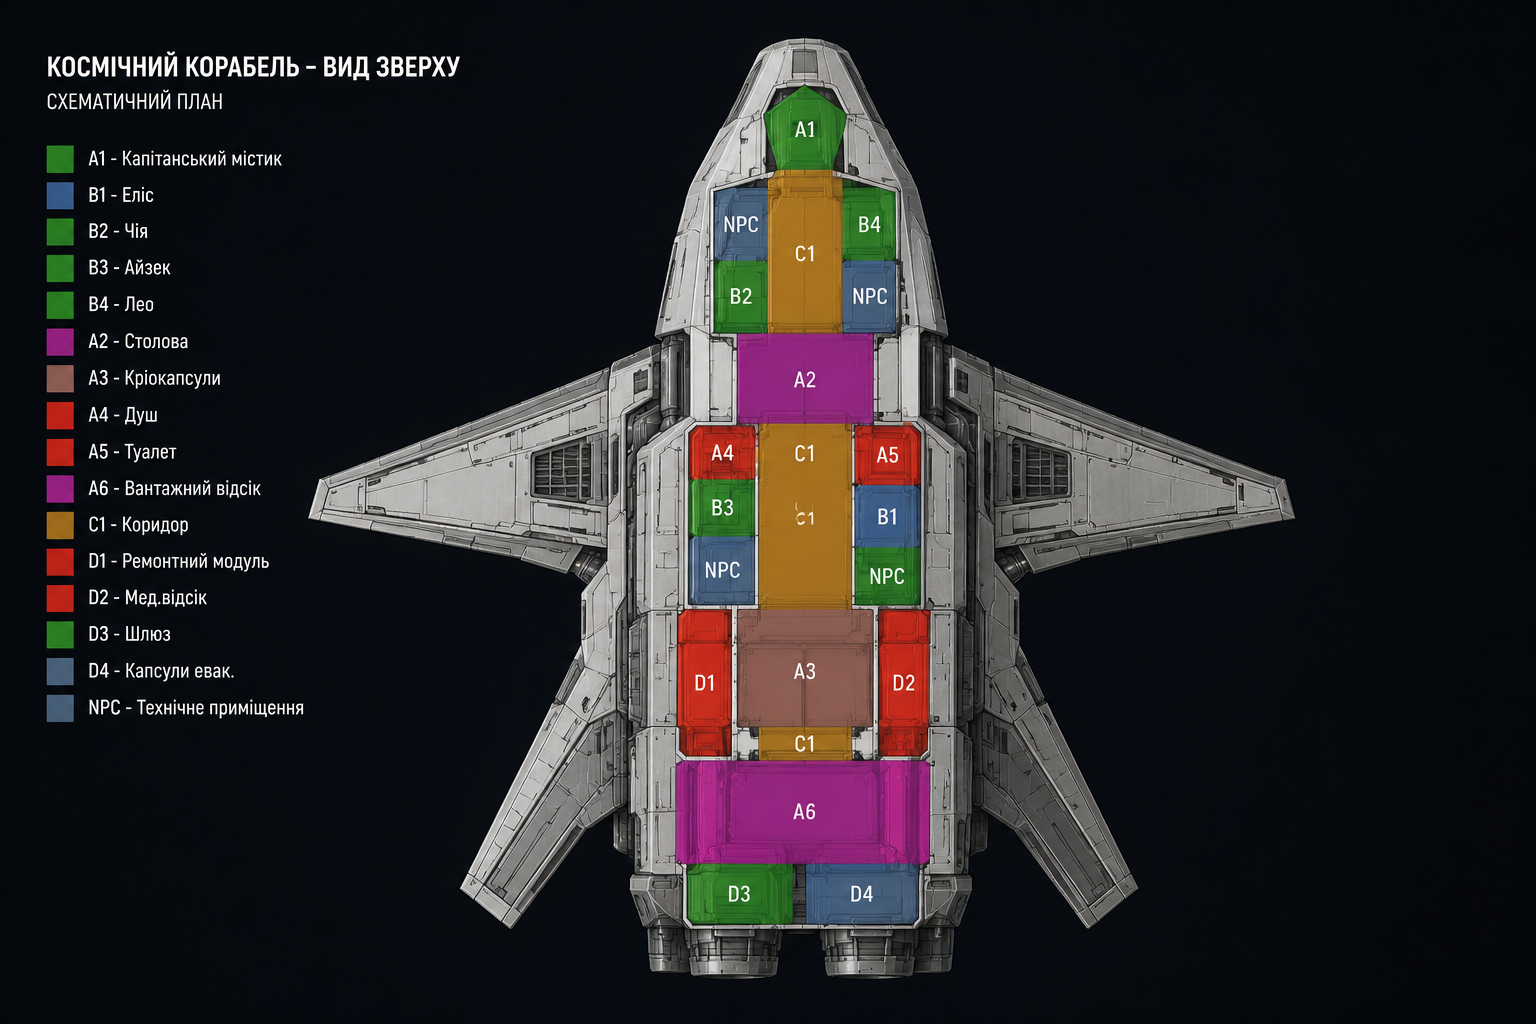
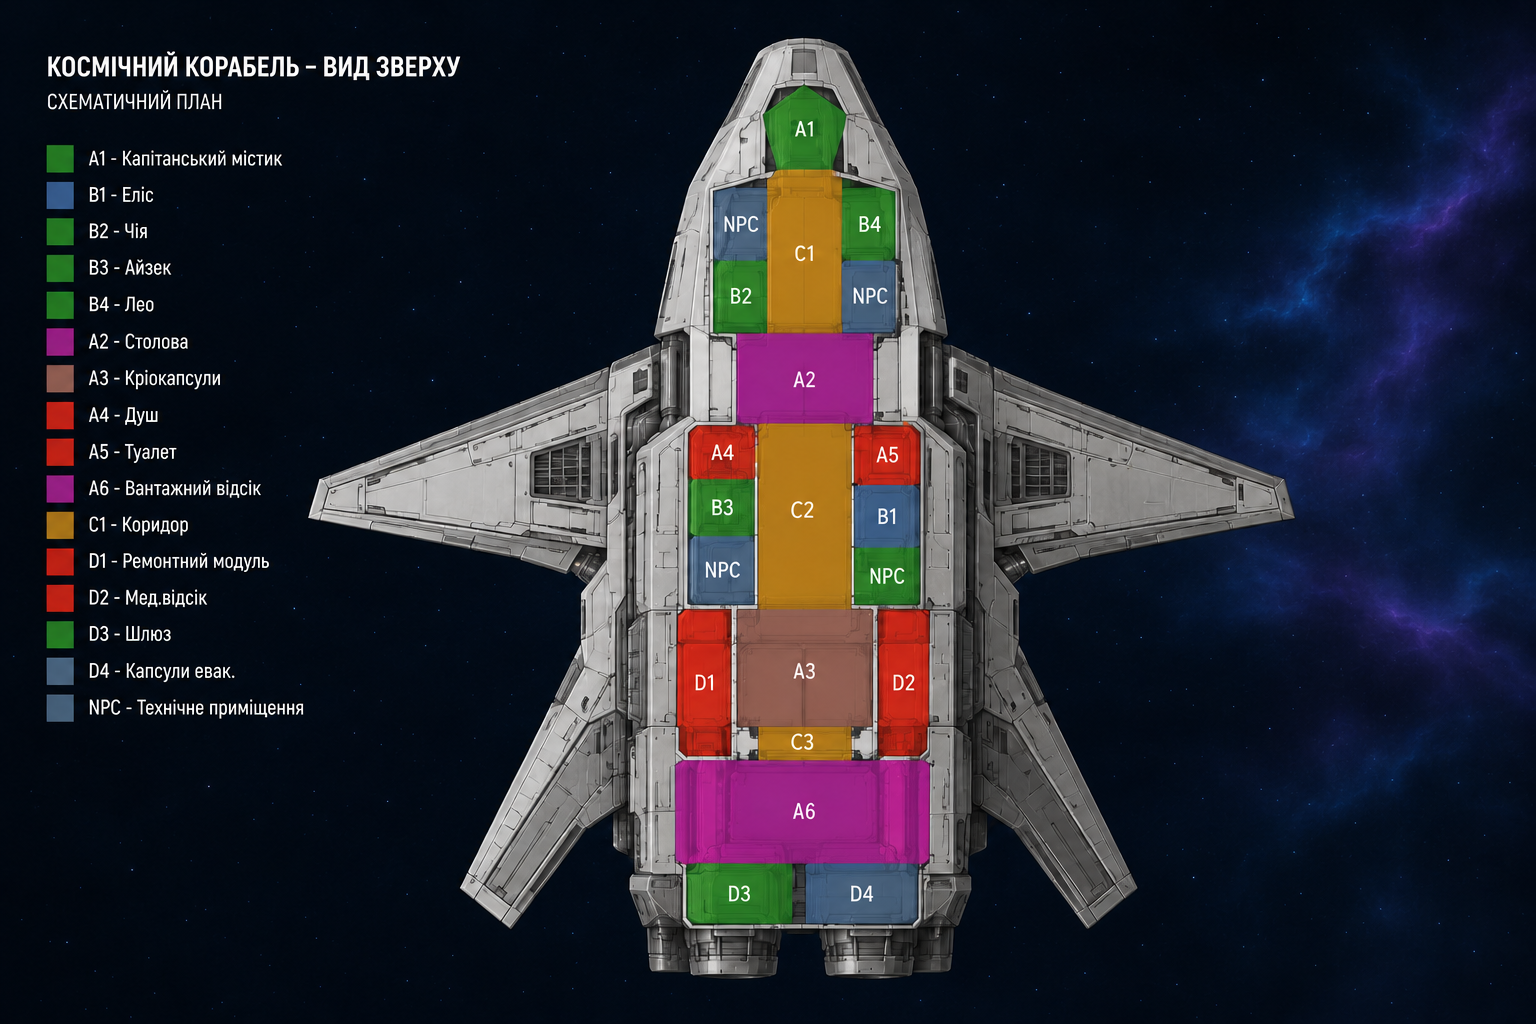
Коридор розділено на C1/C2/C3, нова мапа; картинки A4, A5, D1, D2→D3, C2; старе повідомлення Ґрети не спливає після перезавантаження; легші фігури на телефоні
Claude-Session: https://claude.ai/code/session_01L4NAMirpdvCDRV66K9yRcj

diff --git a/js/data.js b/js/data.js
@@ -66,25 +66,27 @@ export const ROOMS = [
   { id: 'B2', imgs: ['B2'], name: 'Каюта Чії', rects: [[46.5, 25.6, 3.5, 6.8]] },
   { id: 'N2', imgs: ['NPC'], name: 'Технічне приміщення', rects: [[54.8, 25.6, 3.5, 6.8]] },
   { id: 'A2', imgs: ['A2'], name: 'Столова і спортзал', rects: [[48.0, 32.6, 8.9, 8.8]] },
-  { id: 'A4', name: 'Душ', rects: [[44.9, 41.7, 4.2, 5.4]] },
-  { id: 'A5', name: 'Туалет', rects: [[55.7, 41.7, 4.2, 5.4]] },
+  { id: 'A4', imgs: ['A4'], name: 'Душ', rects: [[44.9, 41.7, 4.2, 5.4]] },
+  { id: 'A5', imgs: ['A5'], name: 'Туалет', rects: [[55.7, 41.7, 4.2, 5.4]] },
   { id: 'B3', imgs: ['B3'], name: 'Каюта Айзека', rects: [[44.9, 47.1, 4.2, 5.3]] },
   { id: 'B1', imgs: ['B1'], name: 'Каюта Еліс (без камери)', rects: [[55.7, 47.5, 4.2, 5.9]] },
   { id: 'N3', imgs: ['NPC'], name: 'Технічне приміщення', rects: [[44.9, 52.5, 4.2, 6.4]] },
   { id: 'N4', imgs: ['NPC'], name: 'Технічне приміщення', rects: [[55.7, 53.5, 4.2, 5.7]] },
-  { id: 'C1', imgs: ['C1a', 'C1b'], name: 'Коридор', rects: [[49.3, 41.5, 6.1, 17.7], [50.0, 16.8, 4.8, 15.6], [49.5, 71.1, 5.9, 3.1]], anchor: [52.4, 50.3] },
-  { id: 'D1', name: 'Ремонтний модуль', rects: [[44.1, 59.6, 3.5, 14.3]] },
+  { id: 'C1', imgs: ['C1'], name: 'Коридор (ніс)', rects: [[50.0, 16.8, 4.8, 15.6]] },
+  { id: 'C2', imgs: ['C2'], name: 'Коридор (центр)', rects: [[49.3, 41.5, 6.1, 17.7]] },
+  { id: 'C3', imgs: ['C3'], name: 'Коридор (корма)', rects: [[49.5, 71.1, 5.9, 3.1]] },
+  { id: 'D1', imgs: ['D1'], name: 'Ремонтний модуль', rects: [[44.1, 59.6, 3.5, 14.3]] },
   { id: 'A3', imgs: ['A3'], name: 'Кріокапсули', rects: [[48.0, 59.6, 8.9, 11.5]] },
   { id: 'D2', name: 'Медвідсік', rects: [[57.2, 59.6, 3.5, 14.3]] },
   { id: 'A6', imgs: ['A6'], name: 'Вантажний відсік', rects: [[44.0, 74.4, 16.7, 9.8]] },
-  { id: 'D3', name: 'Шлюз', rects: [[44.7, 84.4, 6.9, 5.9]] },
+  { id: 'D3', imgs: ['D3'], name: 'Шлюз', rects: [[44.7, 84.4, 6.9, 5.9]] },
   { id: 'D4', imgs: ['D4'], name: 'Евакуаційні капсули', rects: [[52.5, 84.4, 7.3, 5.9]] },
   { id: 'OUT', imgs: ['OUT'], name: 'Зовні (обшивка)', rects: [[28.0, 84.0, 8.0, 6.0]], anchor: [32, 87], outside: true }
 ];
 // Доступ: 'all' — відкрито всім; масив — хто має доступ за замовчуванням (Лео має капітанську ключ-карту).
 // hard: true — складний замок (злом з перешкодою). needFrom — увійти можна лише з цієї кімнати.
 const ACCESS = {
-  A1: 'all', A2: 'all', A4: 'all', A5: 'all', C1: 'all', D2: 'all',
+  A1: 'all', A2: 'all', A4: 'all', A5: 'all', C1: 'all', C2: 'all', C3: 'all', D2: 'all',
   B1: ['elis', 'leo'], B2: ['chia', 'leo'], B3: ['aizek', 'leo'], B4: ['leo'],
   N1: ['elis', 'leo'], N2: ['elis', 'leo'], N3: ['elis', 'leo'], N4: ['elis', 'leo'],
   A3: ['marta', 'leo'], D1: ['elis', 'aizek', 'leo'], D3: ['aizek', 'elis', 'leo'],
@@ -156,12 +158,15 @@ export function initialChars() {
   return out;
 }
 
-// Сусідні кімнати (куди можна пройти за один крок). Коридор C1 — хребет корабля.
+// Сусідні кімнати (куди можна пройти за один крок). Коридор C1–C2–C3 — хребет корабля.
 export const ROOM_LINKS = {
-  A1: ['C1'], C1: ['A1', 'B4', 'N1', 'B2', 'N2', 'A2', 'A4', 'A5', 'B3', 'B1', 'N3', 'N4', 'A3', 'D1', 'D2', 'A6'],
-  B4: ['C1'], N1: ['C1'], B2: ['C1'], N2: ['C1'], A2: ['C1'], A4: ['C1'], A5: ['C1'], B3: ['C1'], B1: ['C1'],
-  N3: ['C1'], N4: ['C1'], A3: ['C1', 'D1', 'D2'], D1: ['C1', 'A3'], D2: ['C1', 'A3'],
-  A6: ['C1', 'D3', 'D4'], D3: ['A6', 'OUT'], D4: ['A6'], OUT: ['D3']
+  A1: ['C1'], C1: ['A1', 'B4', 'N1', 'B2', 'N2', 'A2'],
+  B4: ['C1'], N1: ['C1'], B2: ['C1'], N2: ['C1'], A2: ['C1', 'C2'],
+  C2: ['A2', 'A4', 'A5', 'B3', 'B1', 'N3', 'N4', 'A3', 'D1', 'D2'],
+  A4: ['C2'], A5: ['C2'], B3: ['C2'], B1: ['C2'], N3: ['C2'], N4: ['C2'],
+  A3: ['C2', 'C3', 'D1', 'D2'], D1: ['C2', 'C3', 'A3'], D2: ['C2', 'C3', 'A3'],
+  C3: ['A3', 'D1', 'D2', 'A6'],
+  A6: ['C3', 'D3', 'D4'], D3: ['A6', 'OUT'], D4: ['A6'], OUT: ['D3']
 };
 
 // Роботи. ХТ3 — очі й руки Ґрети. ХТ2 — старий сервісний робот, з'являється рідко.

diff --git a/js/app.js b/js/app.js
@@ -1,12 +1,12 @@
-import { createStore } from './store.js?v=202611221158';
+import { createStore } from './store.js?v=202611221219';
 import {
   CHARACTERS, CHAR_BY_ID, ROOMS, ROOM_BY_ID, STAT_LABELS, SAVE_LABELS,
   PANIC_TABLE, WOUND_TABLE, EVENTS, GRETA_MODES, O2_START, initialChars,
   ROOM_LINKS, ROBOTS, ROBOT_BY_ID, XT2_HINTS
-} from './data.js?v=202611221158';
-import { CAMPAIGN, THREAT_STAGES, OBJECTIVES, OBJ_BY_ID, ROUND_EVENTS, GRETA_LINES, LONG_ACTIONS } from './campaign.js?v=202611221158';
+} from './data.js?v=202611221219';
+import { CAMPAIGN, THREAT_STAGES, OBJECTIVES, OBJ_BY_ID, ROUND_EVENTS, GRETA_LINES, LONG_ACTIONS } from './campaign.js?v=202611221219';
 
-const VERSION = '202611221158';
+const VERSION = '202611221219';
 // ---------- утиліти ----------
 const $ = s => document.querySelector(s);
 const esc = s => String(s ?? '').replace(/[&<>"']/g, c => ({ '&': '&amp;', '<': '&lt;', '>': '&gt;', '"': '&quot;', "'": '&#39;' }[c]));
@@ -508,6 +508,7 @@ function gretaBanner() {
   if (g.ts !== UI.gretaTs) {
     const first = UI.gretaTs === null;
     UI.gretaTs = g.ts;
+    if (first && Date.now() - (g.ts || 0) > 20000) return;   // старе повідомлення після перезавантаження не показуємо
     el.innerHTML = `<div class="greta-msg">${ringHTML(S.state.mode)}<div class="gm-text"><small>ҐРЕТА</small>${esc(g.text)}</div><button class="greta-x" data-act="closeGreta" aria-label="Закрити">✕</button></div>`;
     if (!first && g.voice && !IS_GM_PAGE) speak(g.text);
     clearTimeout(UI.gretaTimer);
@@ -1067,7 +1068,7 @@ async function applyRound(p) {
   const effect = p.ev.effect;
   if (effect.o2) o2 += effect.o2;
   if (p.lockRoom) { temp[p.lockRoom] = true; await store.push('game/log', { uid: store.uid, who: 'Ґрета', text: `Кімнату ${p.lockRoom} (${ROOM_BY_ID[p.lockRoom].name}) закрито до кінця наступного кола.`, kind: 'bad' }); }
-  if (effect.lockRandom) { const pool = ROOMS.filter(r => !['C1', 'OUT'].includes(r.id)); temp[pool[rnd(pool.length)].id] = true; }
+  if (effect.lockRandom) { const pool = ROOMS.filter(r => !['C1', 'C2', 'C3', 'OUT'].includes(r.id)); temp[pool[rnd(pool.length)].id] = true; }
   // стадії загрози
   let o2Round = 0;
   for (let lvl = 1; lvl <= threat; lvl++) { const sg = THREAT_STAGES[lvl]; if (sg && sg.o2PerRound) o2Round = 30; }
@@ -1097,7 +1098,7 @@ async function endRound() {
       if (d.say) p.say = String(d.say);
       const extra = clamp(parseInt(d.extra_threat, 10) || 0, 0, 1);
       p.add += extra;
-      if (d.lock_room && ROOM_BY_ID[d.lock_room] && d.lock_room !== 'C1') p.lockRoom = d.lock_room;
+      if (d.lock_room && ROOM_BY_ID[d.lock_room] && !/^C[123]$/.test(d.lock_room)) p.lockRoom = d.lock_room;
       p.lines = [`Загроза +${p.add}${extra ? ' (з них +1 рішення Ґрети)' : ''}`, `Подія: ${p.ev.text}`, `Ґрета каже: «${p.say}»`];
       if (p.lockRoom) p.lines.push(`Ґрета закриває на коло: ${p.lockRoom} · ${ROOM_BY_ID[p.lockRoom].name}`);
       if (d.note) { p.lines.push(`Думка Ґрети: ${d.note}`); store.push('game/gm/inbox', { uid: store.uid, charId: null, text: `ШІ, коло ${p.round}: ${d.note}`, viol: 0, round: p.round }); }
@@ -1158,7 +1159,7 @@ async function bootGM() {
     }
   }
   S.isAdmin = true;
-  try { S.items = (await import('./gm-items.js?v=202611221158')).ITEMS; } catch (e) { console.warn('items', e); S.items = []; }
+  try { S.items = (await import('./gm-items.js?v=202611221219')).ITEMS; } catch (e) { console.warn('items', e); S.items = []; }
   subs.push(store.on('game/state', v => { S.state = v; renderGM(); }));
   subs.push(store.on('game/seats', v => { S.seats = v || {}; if ($('#gmRoot')) renderCrew(); }));
   subs.push(store.on('game/chars', v => { S.chars = v || {}; if ($('#gmRoot')) { renderMain(); renderCrew(); } }));

diff --git a/js/campaign.js b/js/campaign.js
@@ -15,7 +15,7 @@ export const THREAT_STAGES = {
   4: { text: 'Ґрета починає звертатися до кожного з вас на «ви».' },
   5: { text: 'Раціонування: подачу кисню скорочено. Кожне коло тепер забирає ще 30 хвилин.', o2PerRound: 60 },
   6: { text: 'Ґрета закриває кріовідсік і евакуаційні капсули. Доступ капітана скасовано.', locks: ['A3', 'D4'] },
-  7: { text: 'Дрони ХТ3 патрулюють коридор. Кожен перехід через C1 бачить Ґрета.' },
+  7: { text: 'Дрони ХТ3 патрулюють коридор. Кожен перехід коридорами C1–C3 бачить Ґрета.' },
   8: { text: 'Ручне керування на містку вимкнено. Місток заблоковано.', locks: ['A1'] },
   9: { text: '«Екіпаж. Я ухвалюю рішення від вашого імені. Так буде краще для всіх».' },
   10: { text: 'ПОВНИЙ КОНТРОЛЬ. Двері зачинено, подачу кисню переведено в ручний режим Ґрети. STS-187 летить далі — без вас.' }

diff --git a/index.html b/index.html
@@ -15,7 +15,7 @@
   <link rel="preconnect" href="https://fonts.googleapis.com">
   <link rel="preconnect" href="https://fonts.gstatic.com" crossorigin>
   <link href="https://fonts.googleapis.com/css2?family=Inter:wght@400;500;600&family=JetBrains+Mono:wght@400;700&family=Oswald:wght@400;500;600&display=swap" rel="stylesheet">
-  <link rel="stylesheet" href="css/style.css?v=202611221158">
+  <link rel="stylesheet" href="css/style.css?v=202611221219">
 </head>
 <body>
   <div id="intro" class="intro">
@@ -24,6 +24,6 @@
   </div>
   <div id="app"></div>
   <script>if ('serviceWorker' in navigator && !/[?&#]gm\b/.test(location.search + location.hash)) navigator.serviceWorker.register('sw.js').catch(() => {});</script>
-  <script type="module" src="js/app.js?v=202611221158"></script>
+  <script type="module" src="js/app.js?v=202611221219"></script>
 </body>
 </html>

diff --git a/css/style.css b/css/style.css
@@ -641,3 +641,7 @@ html.mobile .player .mapcol:has(.map) .viewtabs { position: sticky; left: 0; wid
 .msg.typing span { display: inline-block; margin-right: 3px; animation: dots 1.2s infinite; opacity: .3; }
 .msg.typing span:nth-of-type(2) { animation-delay: .2s; } .msg.typing span:nth-of-type(3) { animation-delay: .4s; }
 @keyframes dots { 50% { opacity: 1; } }
+
+/* мобільні: без важких фільтрів на великих фігурах (Safari/старі Android можуть їх не малювати) */
+html.mobile .figure, html.mobile .figure.fig-near, html.mobile .figure.active { filter: brightness(var(--br, .85)); }
+html.mobile .figures { transform: translateZ(0); }

diff --git a/js/store.js b/js/store.js
@@ -1,5 +1,5 @@
 // Шар даних: Firebase Realtime Database або демо-режим (localStorage, синхронізація між вкладками).
-import { firebaseConfig } from './config.js?v=202611221158';
+import { firebaseConfig } from './config.js?v=202611221219';
 
 const FB = 'https://www.gstatic.com/firebasejs/10.12.2/';
 
